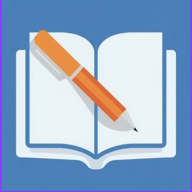
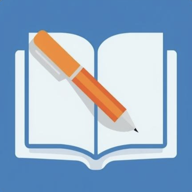
PWAアプリの起動体験を改善
- 新しい白背景StudyBookアイコンを適用
- PWAの背景色を紫から白に変更して見やすく
- スプラッシュスクリーンに「今日は何読む？」メッセージを追加
- アプリインストール時の印象を親しみやすく改善

🤖 Generated with [Claude Code](https://claude.ai/code)

diff --git a/index.html b/index.html
@@ -33,6 +33,7 @@
     <div id="loadingScreen" class="loading-screen">
         <div class="loader"></div>
         <div class="loading-text" id="loadingText">読み込み中...</div>
+        <div class="splash-message" style="margin-top: 2rem; font-size: 1.1rem; color: var(--text-primary); font-weight: 500;">今日は何読む？</div>
     </div>
 
     <!-- 認証モーダル -->
